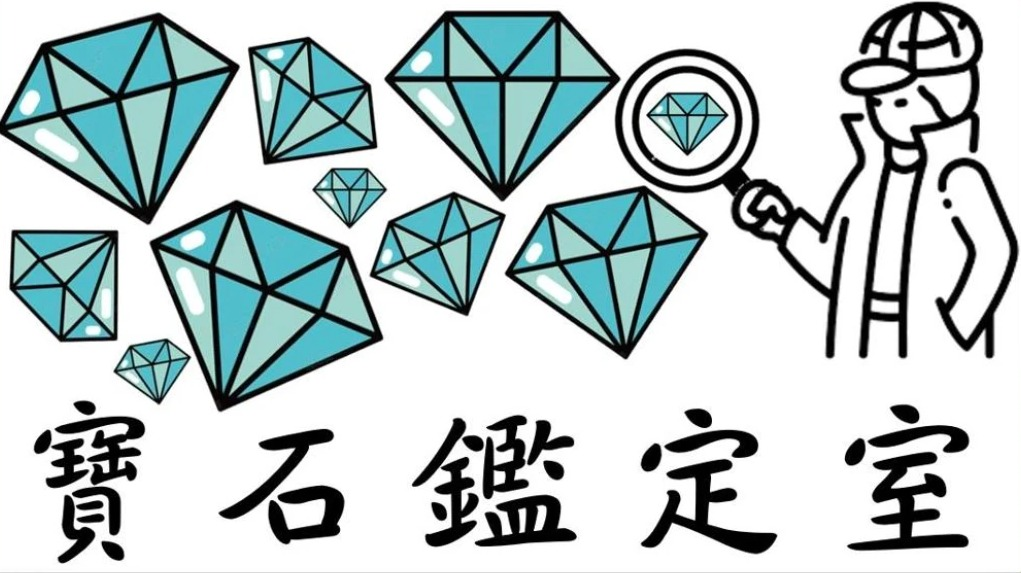
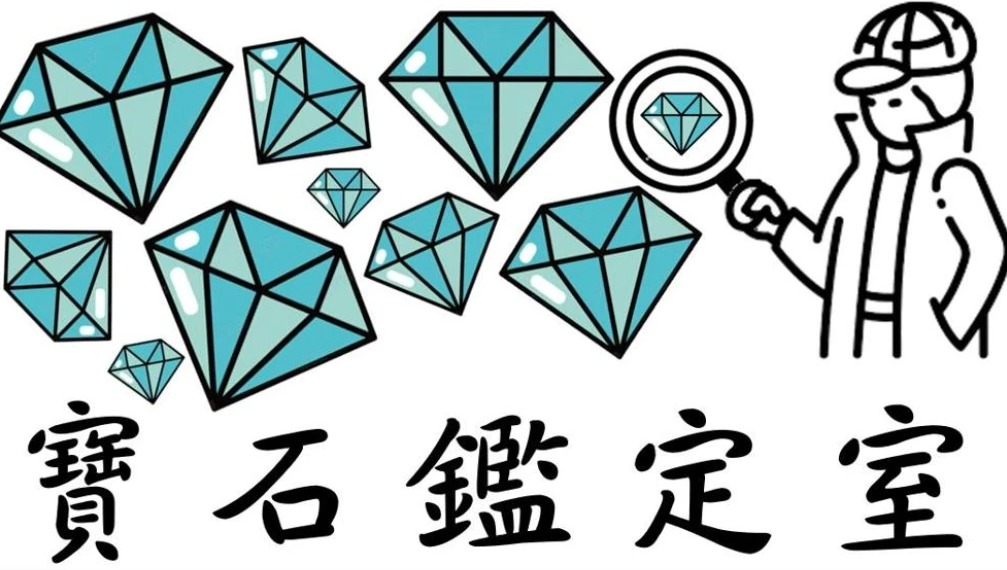
入口寶石鑑定室卡片改用寶石鑑定室圖片、白底；裁掉圖片底部灰線
Claude-Session: https://claude.ai/code/session_01PGau7y25WSzyJ69wPyjPu9

diff --git a/index.html b/index.html
@@ -26,7 +26,8 @@ h1 .sun{color:var(--red)}
 .choice b{font-family:"Noto Serif TC",serif;font-size:clamp(26px,3.4vw,40px);color:var(--red);letter-spacing:.1em;text-align:center;line-height:1.25}
 .choice span{font-size:clamp(14px,2vw,17px);color:var(--muted)}
 .choice.a{background:linear-gradient(160deg,var(--paper),var(--sage))}
-.choice.b{background:linear-gradient(160deg,var(--paper),#cfe6ea)}
+.choice.b{background:#fff;padding:12px;overflow:hidden}
+.choice .cover{width:100%;height:auto;display:block}
 .choice.c{background:linear-gradient(160deg,var(--paper),var(--pink))}
 .teacher{margin-top:40px;color:var(--muted);font-size:14px;text-decoration:none;opacity:.7}
 .teacher:hover{opacity:1;color:var(--red)}
@@ -38,7 +39,7 @@ h1 .sun{color:var(--red)}
   <p class="who">台南市東區裕文國小　王峯文</p>
   <nav class="choices">
     <a class="choice a" href="activity.html"><img class="ic ring" src="img/sdg-ring.svg" alt=""><b>OUR GOALS<br>挑戰配對</b></a>
-    <a class="choice b" href="gems.html"><div class="ic">💎</div><b>寶石鑑定室</b></a>
+    <a class="choice b" href="gems.html" aria-label="寶石鑑定室"><img class="cover" src="img/gems-cover.jpg" alt="寶石鑑定室"></a>
     <a class="choice c" href="possibilities.html"><div class="ic">🌱</div><b>資源班的<br>N種可能</b></a>
   </nav>
   <a class="teacher" href="teacher.html">講師入口</a>
